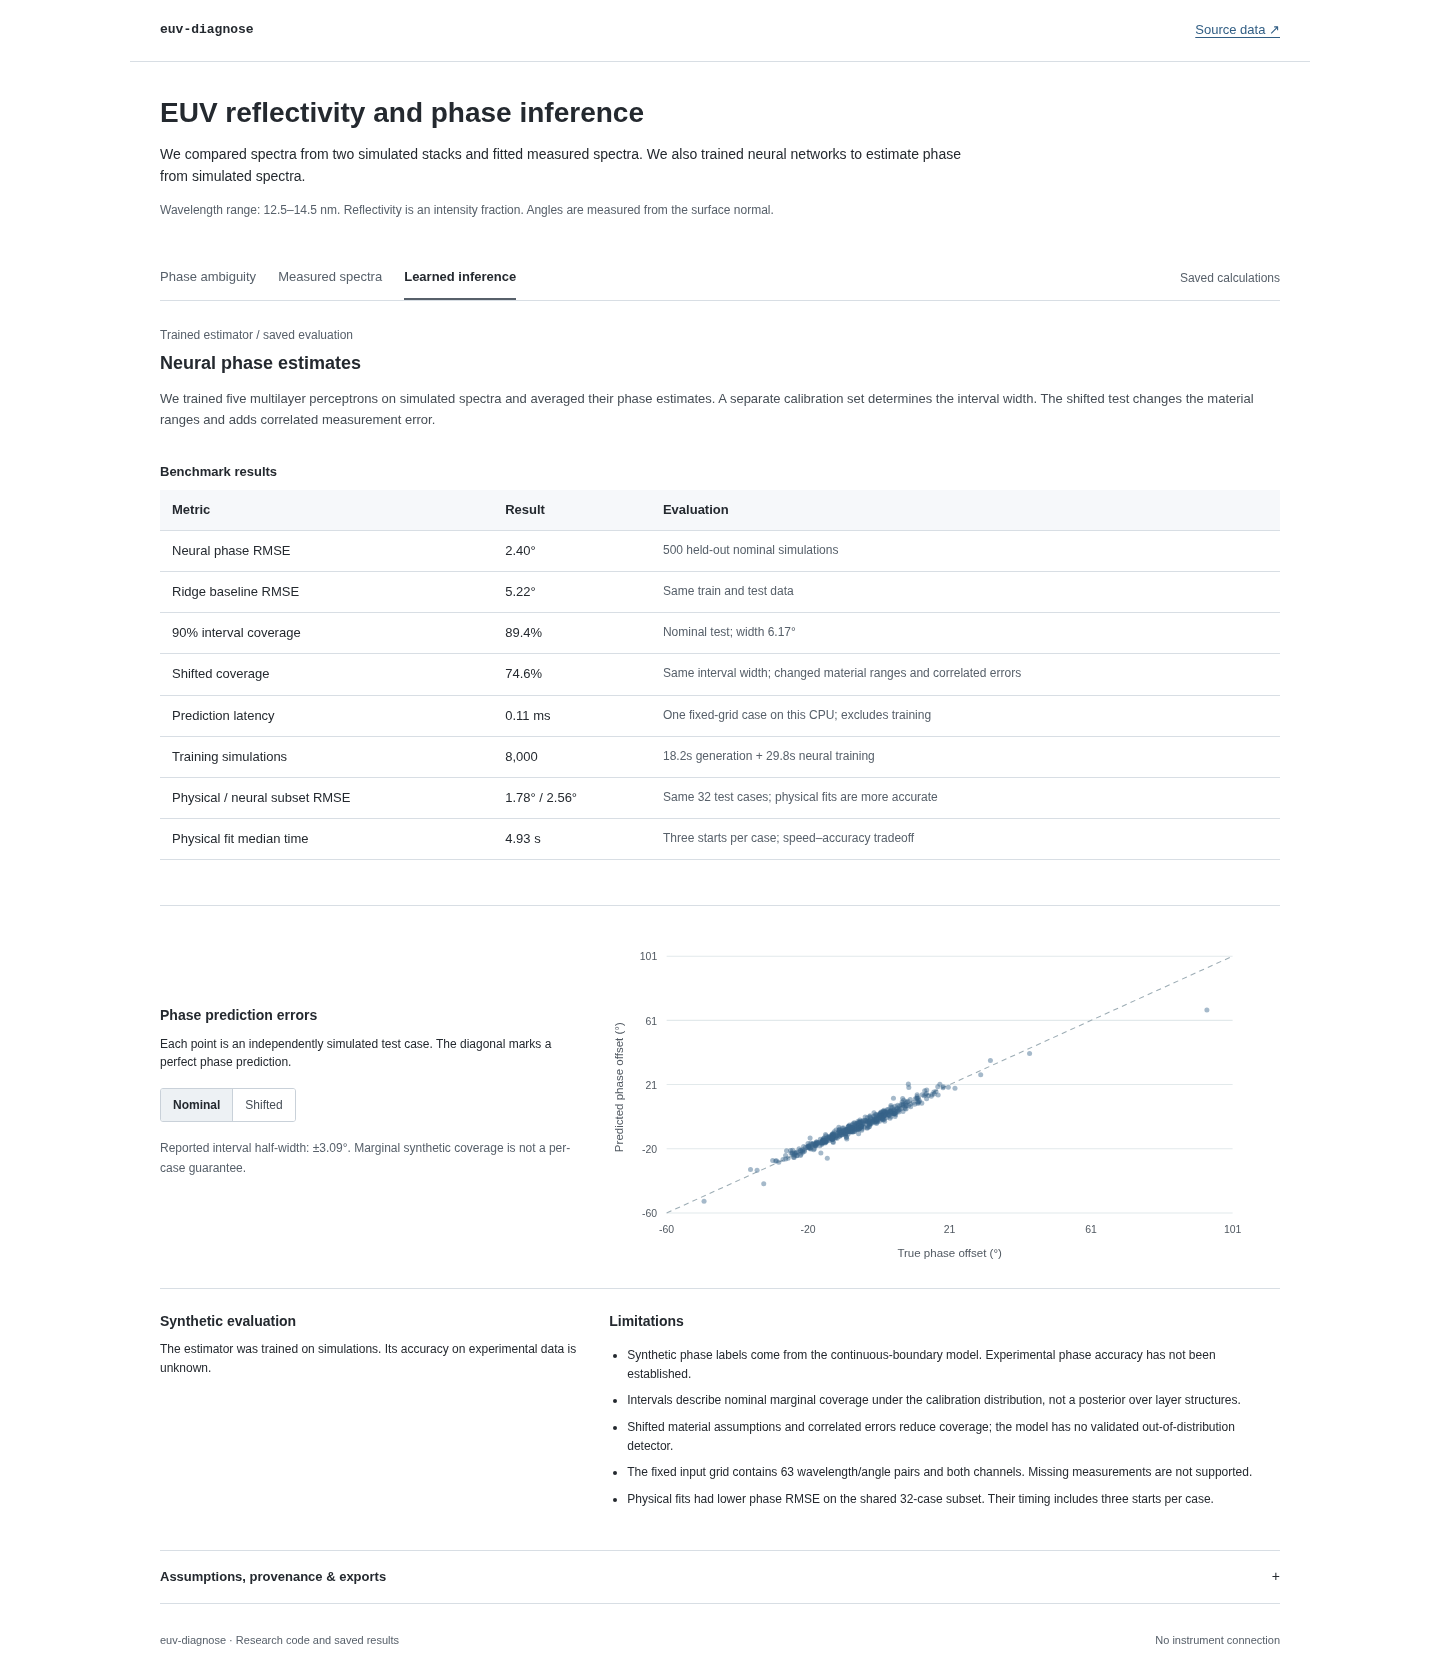
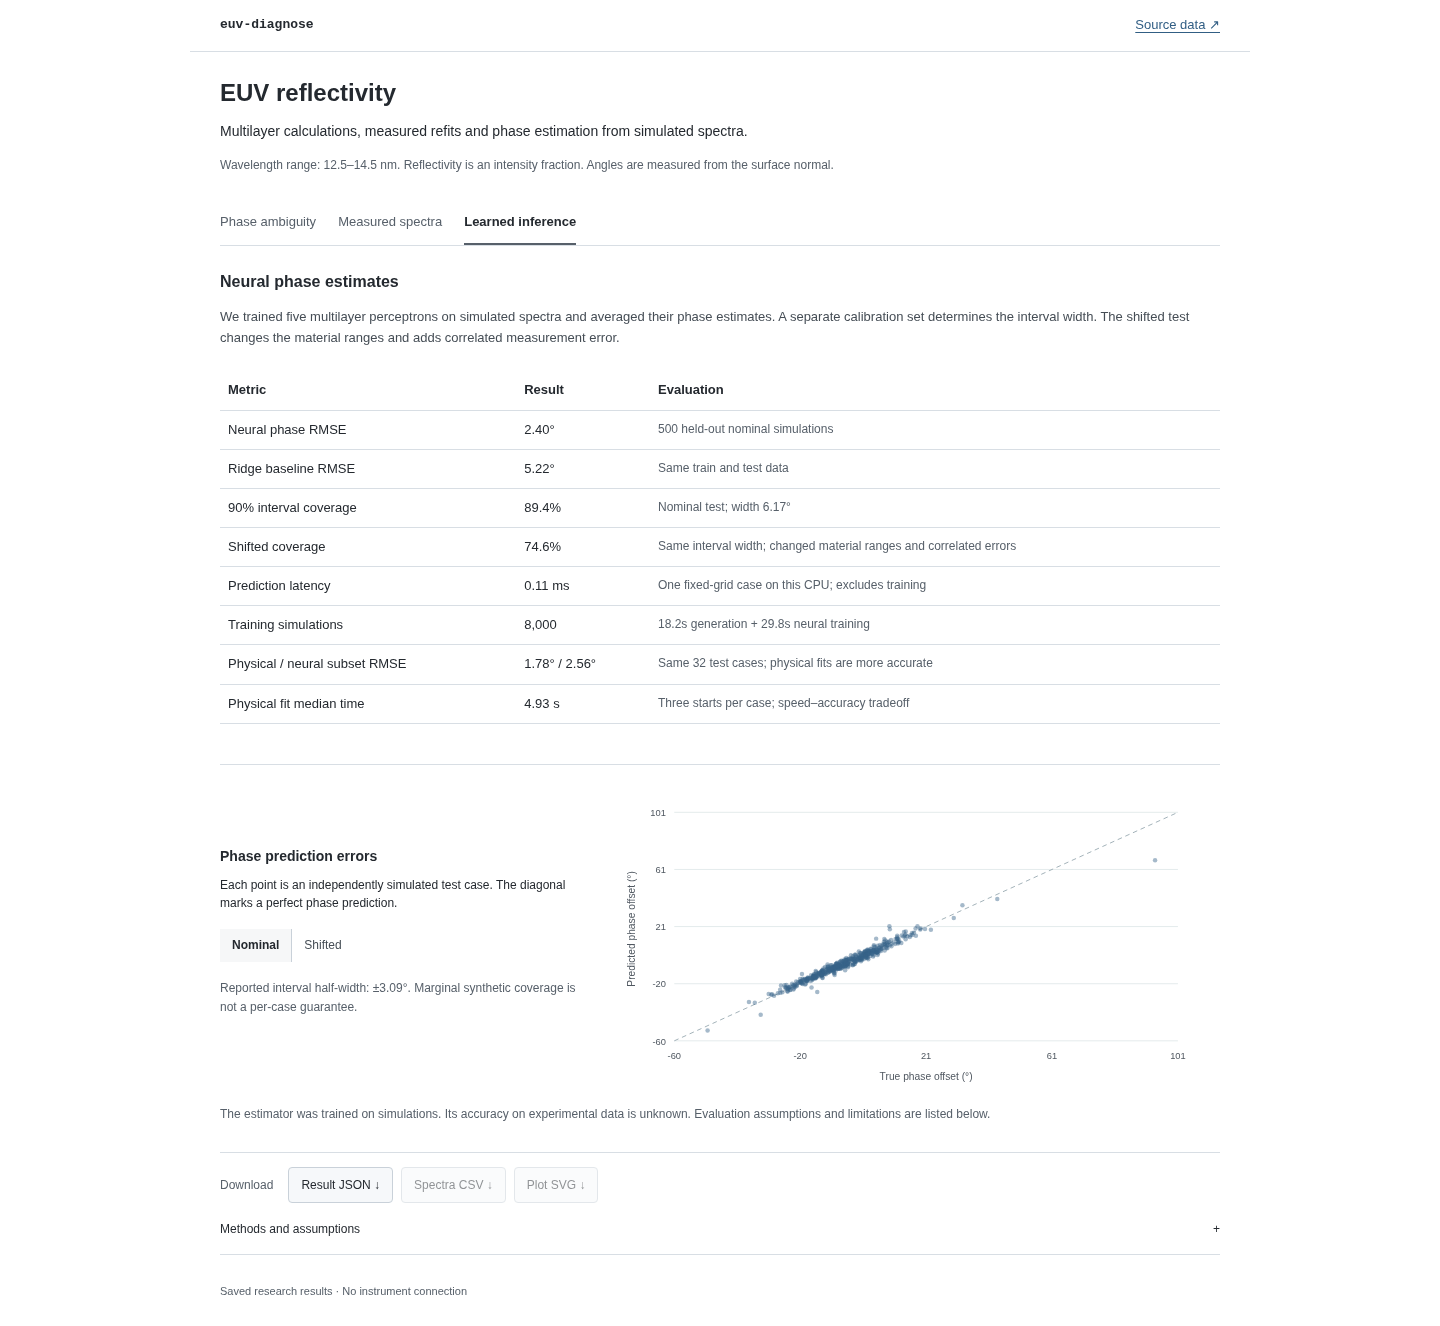
fix(web): use the full mobile width for the scatter plot

diff --git a/app/e2e/explorer.spec.ts b/app/e2e/explorer.spec.ts
@@ -5,7 +5,7 @@ import AxeBuilder from "@axe-core/playwright";
 async function openExplorer(page: Page) {
   await page.goto("/");
   await expect(
-    page.getByRole("heading", { name: "Two stacks. One reflection?" }),
+    page.getByRole("heading", { name: "Two synthetic stacks" }),
   ).toBeVisible();
 }
 
@@ -84,7 +84,7 @@ test("measured and learned exhibits display data with appropriate limits", async
   await openExplorer(page);
   await page.getByRole("button", { name: "Measured spectra" }).click();
   await expect(
-    page.getByRole("heading", { name: "The model meets real light." }),
+    page.getByRole("heading", { name: "Measured reflectivity and refit" }),
   ).toBeVisible();
   await expect(
     page.getByRole("img", {
@@ -100,11 +100,12 @@ test("measured and learned exhibits display data with appropriate limits", async
   ).toBeVisible();
   await assertNoOverflow(page);
   await page.getByRole("button", { name: "Learned inference" }).click();
-  await expect(page.locator(".metric-grid > div")).not.toHaveCount(0);
-  await expect(
-    page.getByRole("heading", { name: "Evaluation boundaries" }),
-  ).toBeVisible();
+  await expect(page.locator(".metrics-table tbody tr")).not.toHaveCount(0);
   await expect(page.locator(".scatter circle")).toHaveCount(500);
+  if (page.viewportSize()!.width < 700) {
+    const plotBox = (await page.locator(".scatter").boundingBox())!;
+    expect(plotBox.width).toBeGreaterThan(page.viewportSize()!.width * 0.8);
+  }
   const nominalPoint = await page
     .locator(".scatter circle")
     .first()
@@ -122,9 +123,11 @@ test("measured and learned exhibits display data with appropriate limits", async
   expect(
     await page.locator(".scatter circle").first().getAttribute("cy"),
   ).not.toEqual(nominalPoint);
-  await page
-    .getByRole("button", { name: "Assumptions, provenance & exports" })
-    .click();
+  await page.getByRole("button", { name: "Methods and assumptions" }).click();
+  await expect(page.locator("#provenance-content")).toBeVisible();
+  await expect(page.locator("#provenance-content")).toContainText(
+    "Experimental phase accuracy has not been established",
+  );
   await expect(
     page.getByRole("button", { name: "Spectra CSV" }),
   ).toBeDisabled();
@@ -138,12 +141,9 @@ test("exports contain reproducible data and a standalone figure", async ({
   page,
 }) => {
   await openExplorer(page);
-  await page
-    .getByRole("button", { name: "Assumptions, provenance & exports" })
-    .click();
   await expect(
-    page.getByRole("button", { name: "Assumptions, provenance & exports" }),
-  ).toHaveAttribute("aria-expanded", "true");
+    page.getByRole("button", { name: "Methods and assumptions" }),
+  ).toHaveAttribute("aria-expanded", "false");
   for (const [name, filename] of [
     ["Result JSON", "euv-diagnose-results.json"],
     ["Spectra CSV", "euv-diagnose-spectra.csv"],
@@ -170,7 +170,7 @@ test("exports contain reproducible data and a standalone figure", async ({
     } else {
       expect(content).toContain('xmlns="http://www.w3.org/2000/svg"');
       expect(content).toContain("<path");
-      expect(content).toContain("Wavelength / nm");
+      expect(content).toContain("Wavelength (nm)");
     }
     await expect(page.getByRole("status")).toHaveText(`Downloaded ${filename}`);
   }
@@ -181,7 +181,7 @@ test("keyboard navigation works with reduced motion", async ({ page }) => {
   await openExplorer(page);
   await page.keyboard.press("Tab");
   await expect(
-    page.getByRole("link", { name: "Skip to explorer" }),
+    page.getByRole("link", { name: "Skip to results" }),
   ).toBeFocused();
   await page.keyboard.press("Enter");
   await page.getByRole("button", { name: "Measured spectra" }).focus();
@@ -206,7 +206,7 @@ test("a missing result bundle presents a useful recovery state", async ({
   );
   await page.goto("/");
   await expect(
-    page.getByRole("heading", { name: "Couldn’t open the experiment." }),
+    page.getByRole("heading", { name: "Could not load results." }),
   ).toBeVisible();
   await expect(page.getByRole("button", { name: "Try again" })).toBeVisible();
   await assertNoOverflow(page);
@@ -248,9 +248,7 @@ test("measured model comparison updates both phase and exported predictions", as
     phase,
   );
   await expect(page.getByLabel("Model assumptions")).toBeFocused();
-  await page
-    .getByRole("button", { name: "Assumptions, provenance & exports" })
-    .click();
+  await page.getByRole("button", { name: "Methods and assumptions" }).click();
   const pending = page.waitForEvent("download");
   await page.getByRole("button", { name: "Spectra CSV" }).click();
   const content = await readFile((await (await pending).path())!, "utf8");

diff --git a/app/src/style.css b/app/src/style.css
@@ -539,7 +539,10 @@ footer {
     max-width: 420px;
   }
   .provenance-grid,
-  .scatter-section,
+  .scatter-section {
+    grid-template-columns: 1fr;
+    gap: 18px;
+  }
   .metrics-table th,
   .metrics-table td {
     padding: 8px 6px;
